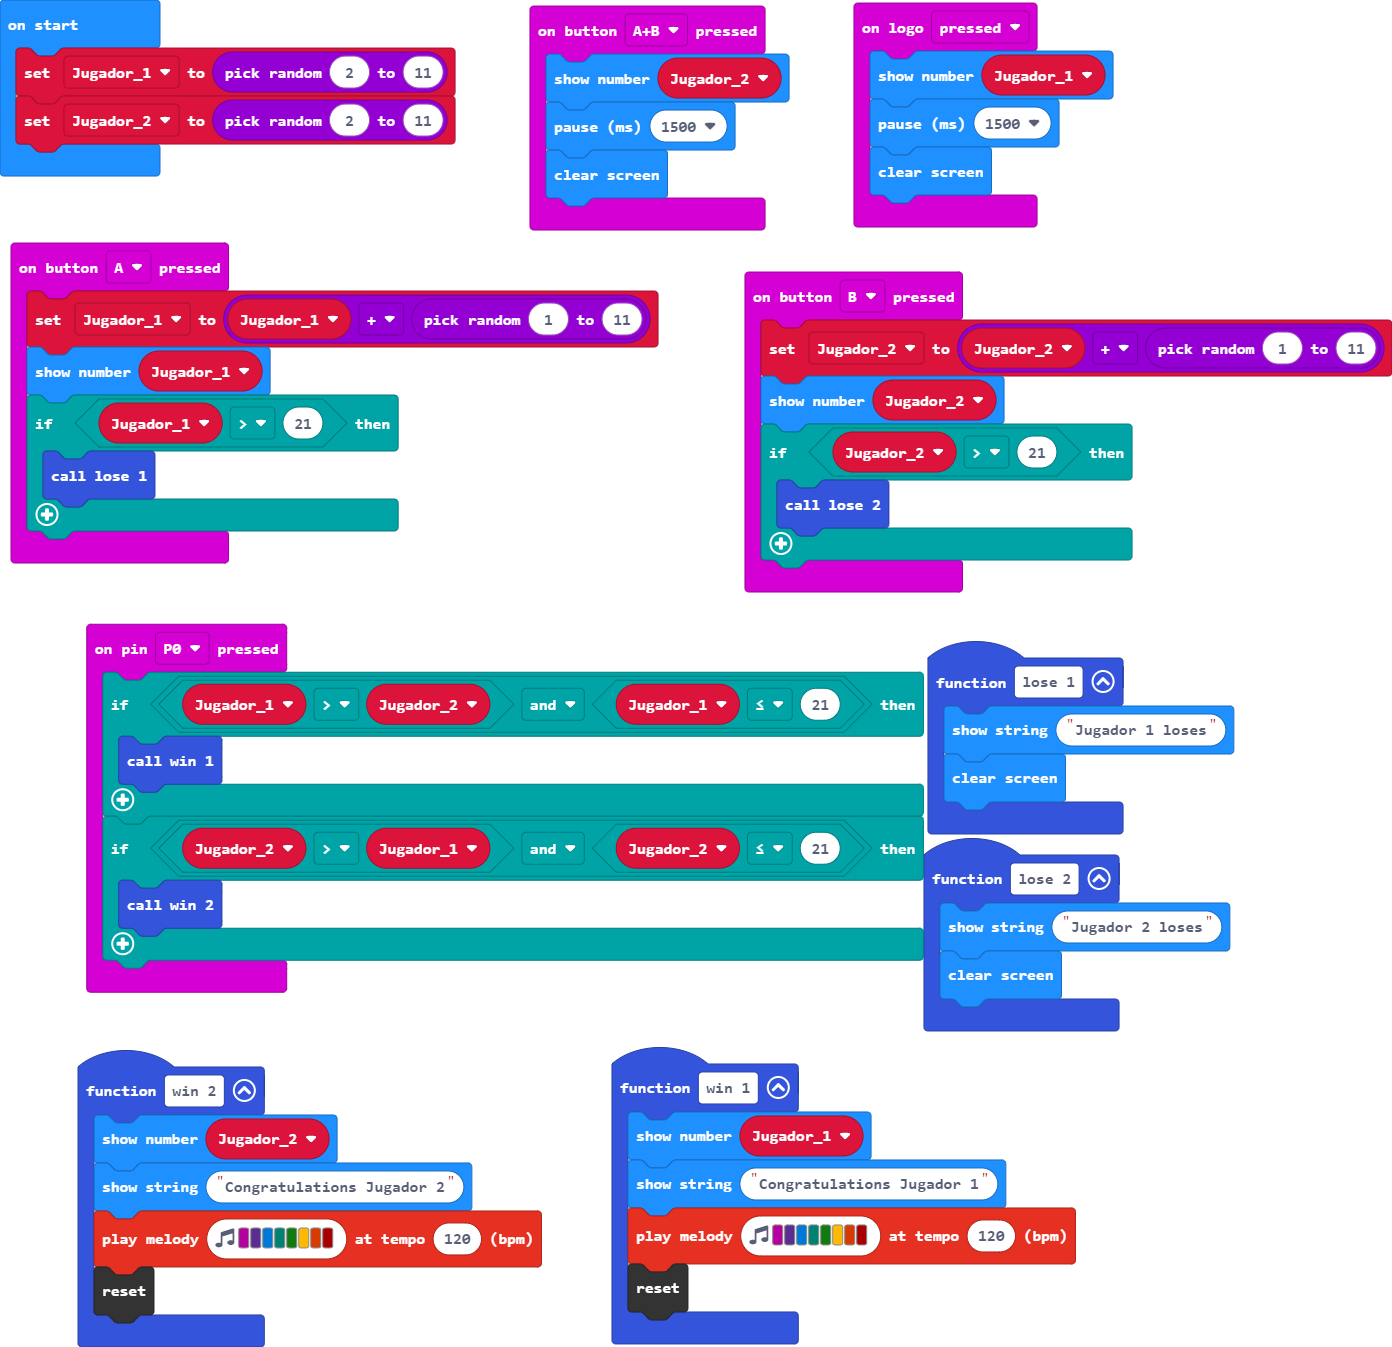
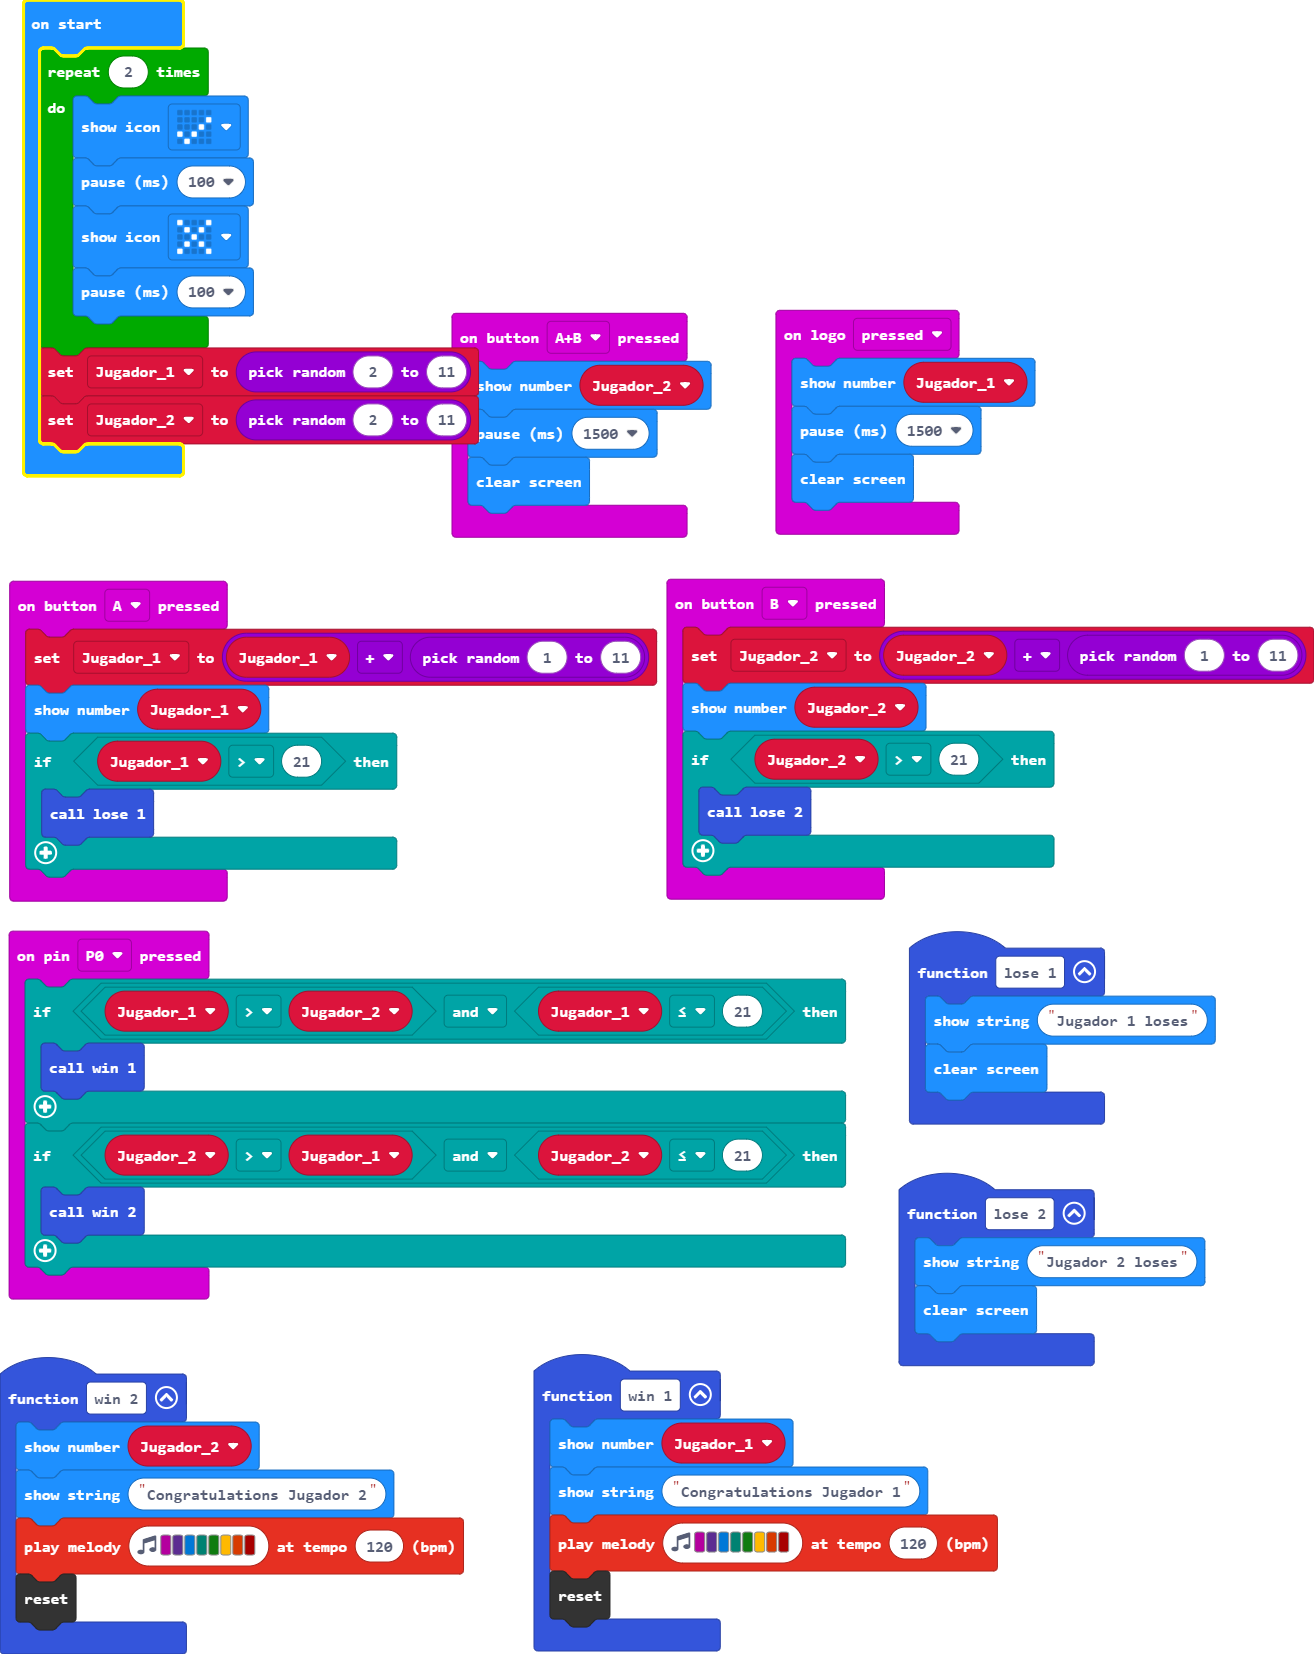
Update main.blocks, main.ts

diff --git a/main.ts b/main.ts
@@ -52,5 +52,11 @@ function lose_1 () {
 }
 let Jugador_2 = 0
 let Jugador_1 = 0
+for (let index = 0; index < 2; index++) {
+    basic.showIcon(IconNames.Yes)
+    basic.pause(100)
+    basic.showIcon(IconNames.No)
+    basic.pause(100)
+}
 Jugador_1 = randint(2, 11)
 Jugador_2 = randint(2, 11)
